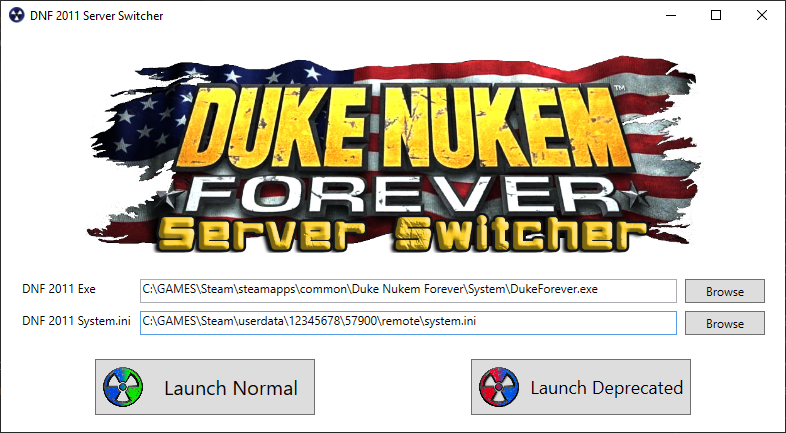
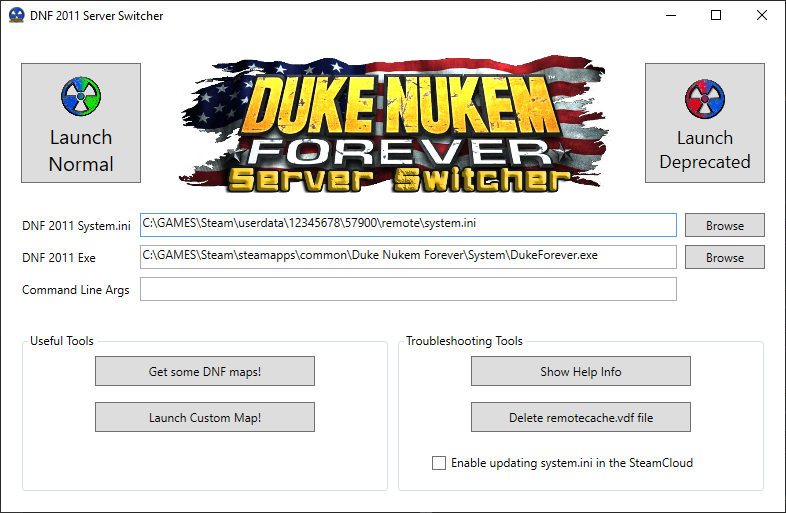
Updated README.md

diff --git a/README.md b/README.md
@@ -7,12 +7,9 @@ For intense Duke Nukem Forever multiplayer action, join us here: https://steamco
 
 ![](.doc/ApplicationTheme.png)
 
-## Warning - Known issue
+## Description
 
-Sometimes the steam cloud seems to mess with the system.ini file and causes the "Launch Deprecated" mode not to work...
-Currently looking into the issue. As a temporary work around, try disabling the steam cloud for Duke Nukem Forever.
-
-## How it works
+### Launching the Game
 Upon launching the first time, the application will attempt to auto locate the DukeForever.exe file and the system.ini file.
 If auto-detection fails, you can manually set the paths using the browse buttons.
 
@@ -26,9 +23,27 @@ Additionally, when launching in Deprecated mode, the dnWindow.u mod file require
 
 NOTE: The application will copy the dnWindow.u file from the "ThirdParty" subfolder. Before launching Deprecated mode, if the file already exists, the dnWindow.u file checksum will be verified and the file will be replaced if different. If you want to use a different dnWindow.u file, replace the one in the "ThirdParty" subfolder!
 
+The `Command Line Args` field can be used to specify additional parameters when launching the game...
+
+### Useful tools
+
+The `Get some DNF maps` button opens [https://dnfmaps.com/dnf-2011/](https://dnfmaps.com/dnf-2011/) in a browser. You can downlload custom maps here for both singleplayer and multiplayer.
+
+The `Launch Custom Map` button lets you select a custom map file, then launches the game using that map file as a command line argument, letting you immediately play the map in singleplayer mode!
+
+### Troubleshooting
+Sometimes the Steam Cloud sync can get in the way by overwriting the local modified system.ini file with an older version from the cloud. To deal with this you have two options:
+1. Use the `Delete remotecache.vdf file` button to delete the local cache file and hopefully have the Steam Cloud sync work properly
+2. Tick the checkbox to `Enable uploading the system.ini in the Steam Cloud` - this uses [Facepunch.Steamworks](https://github.com/Facepunch/Facepunch.Steamworks) to send the modified system.ini file to the Steam Cloud
+
+IMPORTANT NOTE: For the app to sync the `system.ini` file into the cloud, Steam needs to be already running. Otherwise this won't work.
+
+
 ## Old Theme
 
 I added a cool new theme, but if you don't like it and want the borring Default look, edit this line from the configuration ini:
-`ThemeName=DookieNookie2001` change it into `ThemeName=Default`
+`ThemeName=DookieNookie2001` change it into `ThemeName=Default` or just leave it empty like this: `ThemeName=`
+
+Note: I will add a way to do this automatically in the application... soon (tm)
 
 ![](.doc/Application.png)
